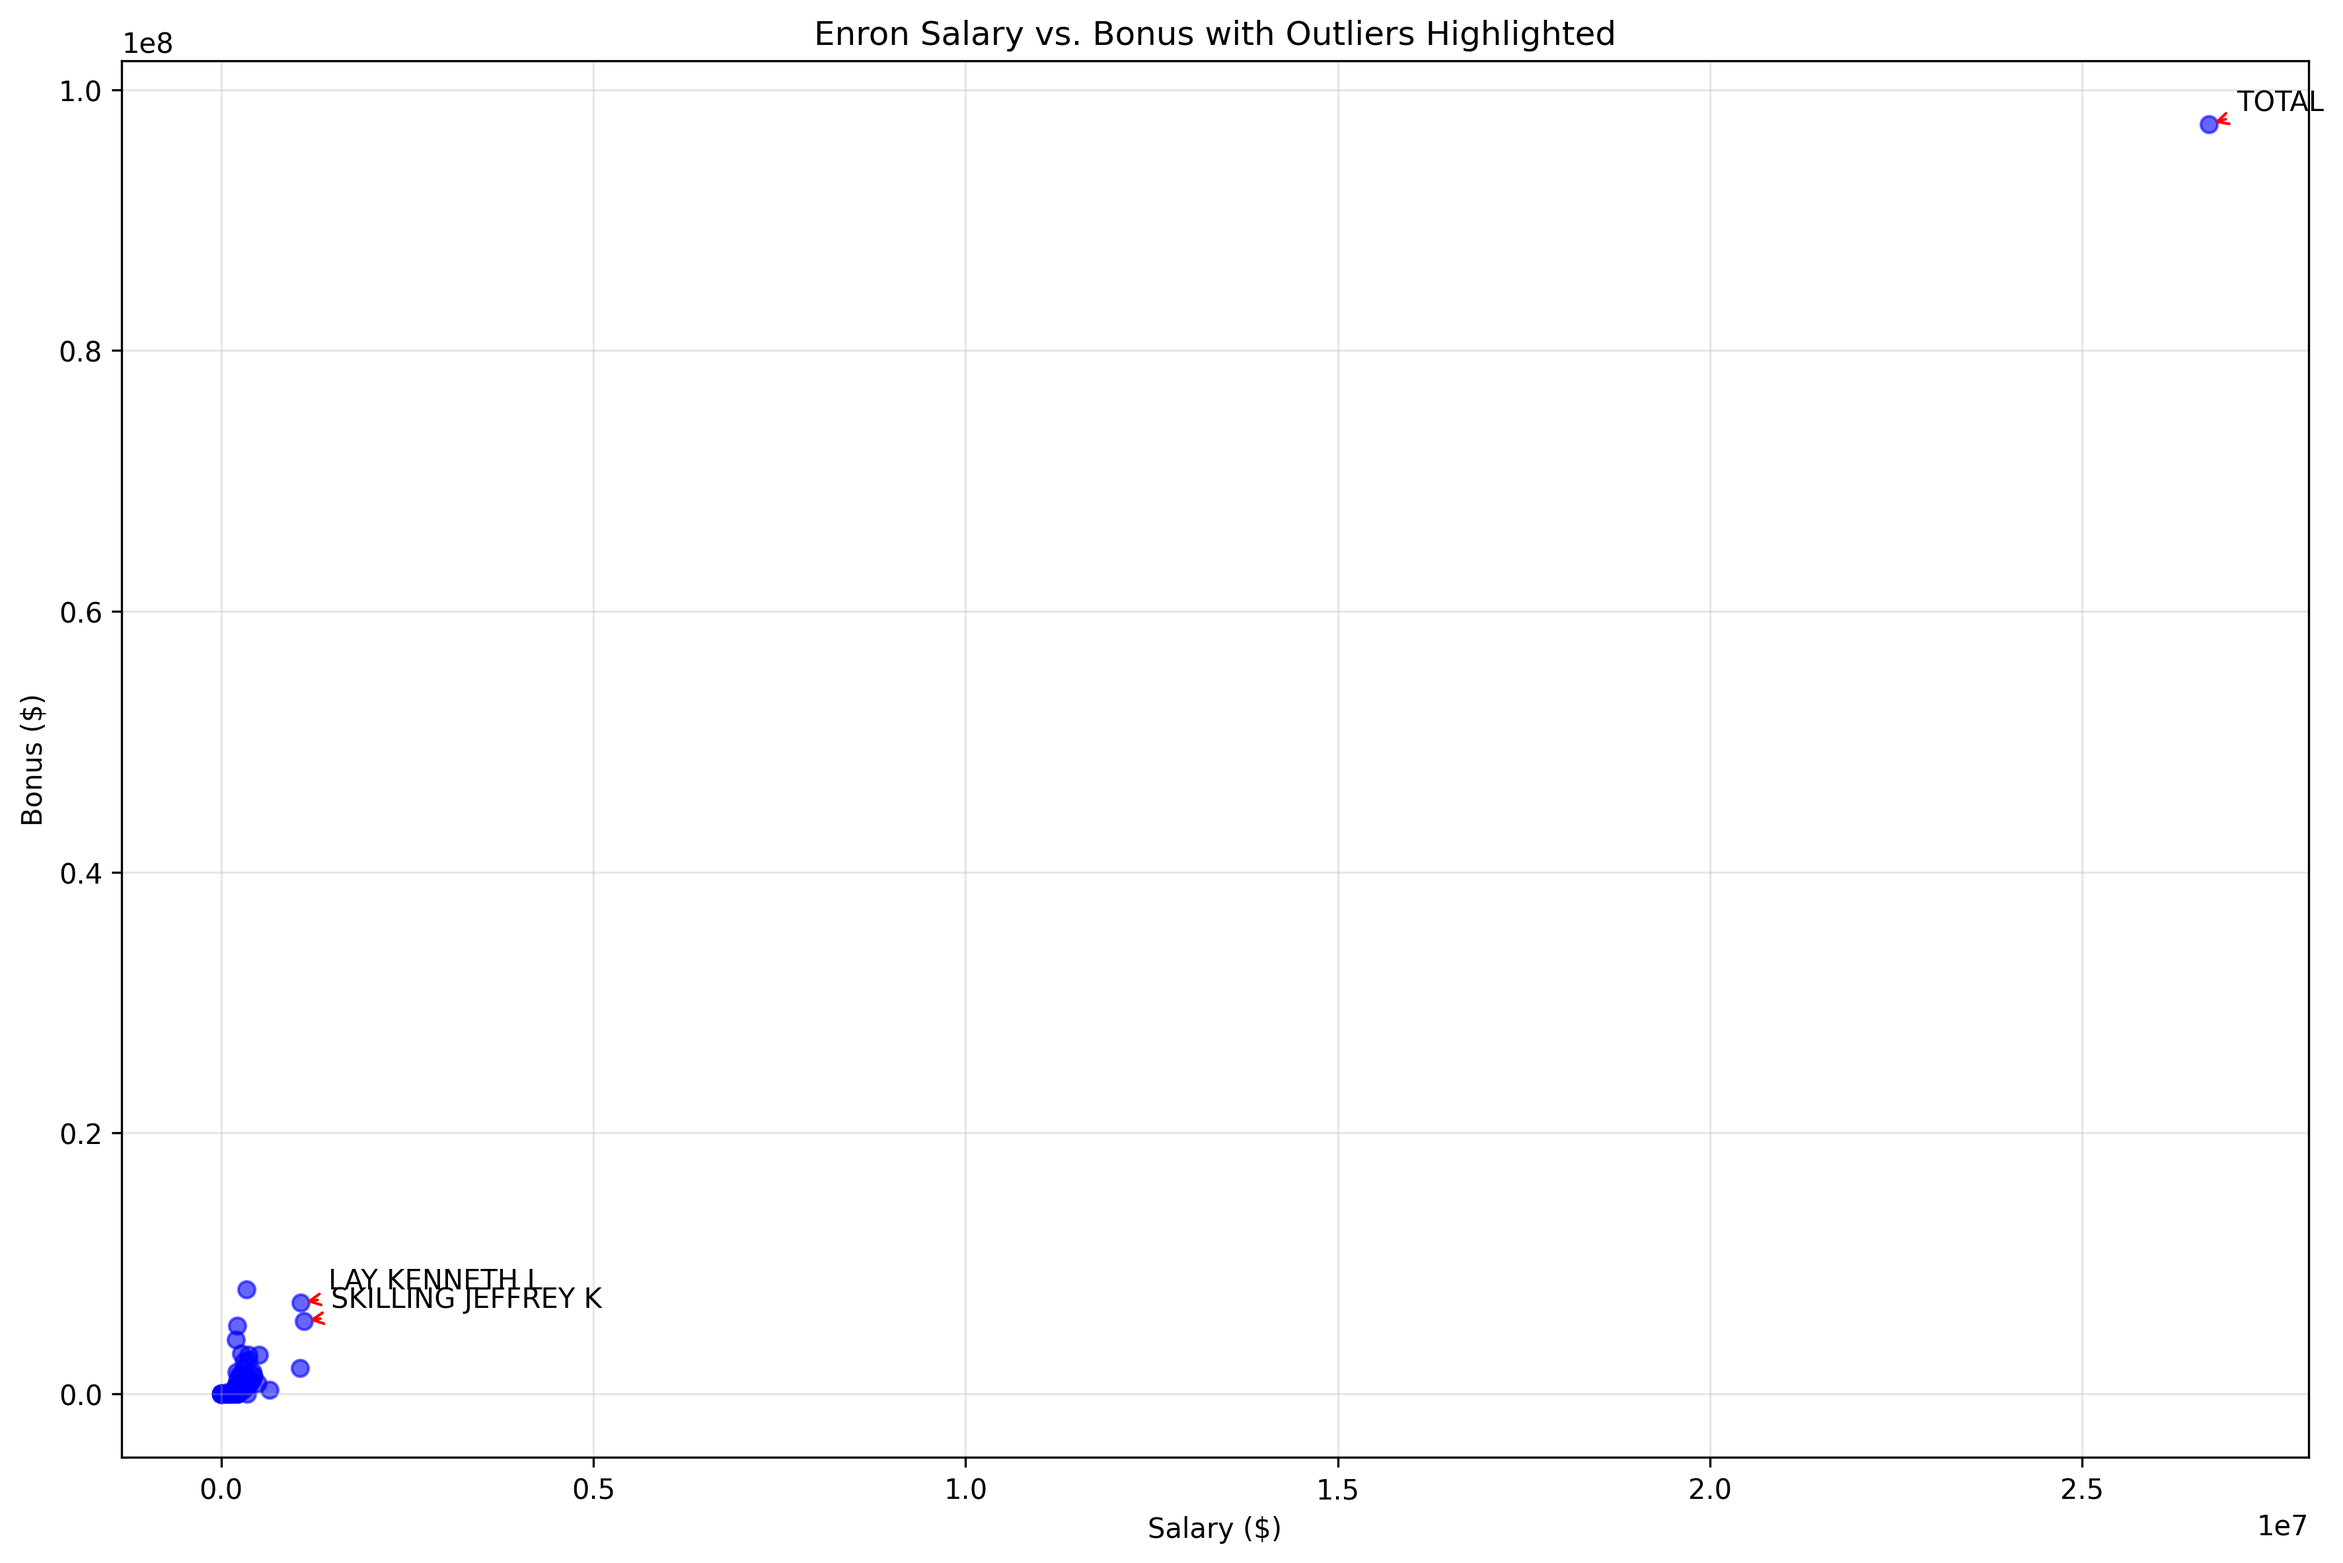
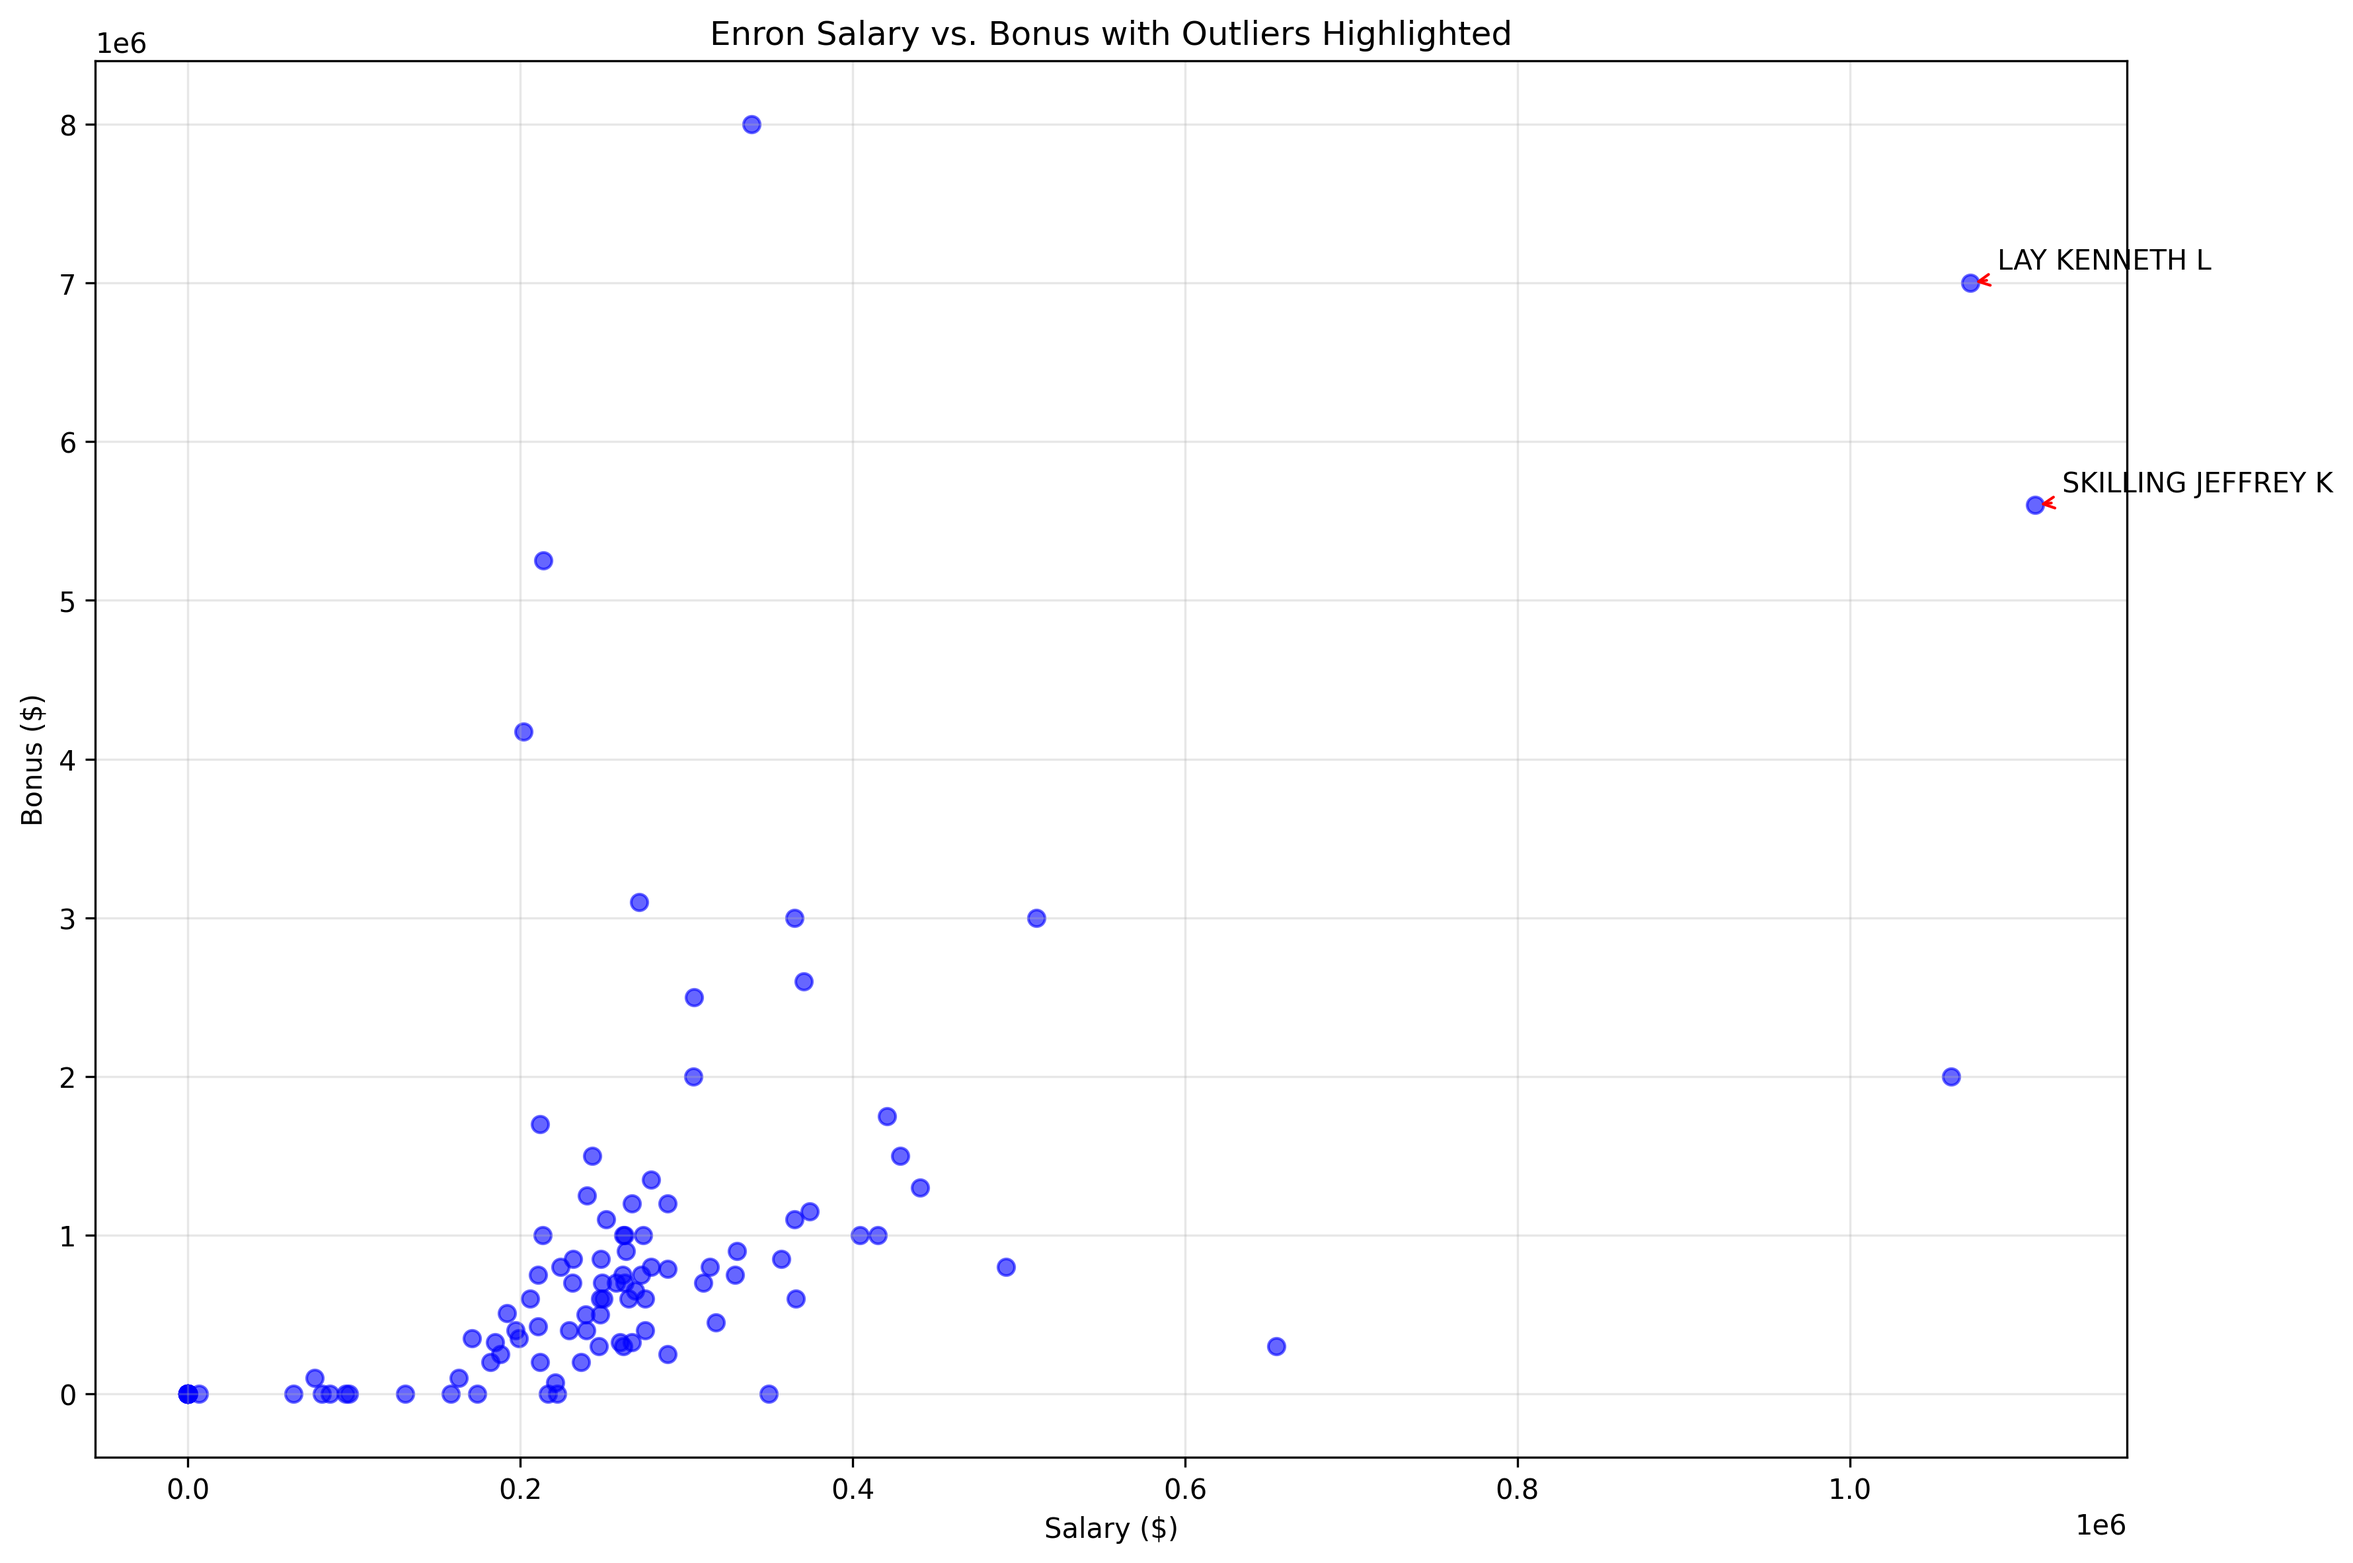
removed total from feature

diff --git a/outliers/enron_outliers.py b/outliers/enron_outliers.py
@@ -15,6 +15,11 @@ from feature_format import featureFormat, targetFeatureSplit
 ### read in data dictionary, convert to numpy array
 data_dict = joblib.load(open("C:\\Users\\ACER\\Documents\\KULIAH\\Semester 4\\Machine Learning\\Week 6\\Mini_Projects\\final_project\\final_project_dataset.pkl", "rb"))
 
+# Remove the TOTAL entry which is a summation row, not an actual person
+if 'TOTAL' in data_dict:
+    del data_dict['TOTAL']
+    print("Removed 'TOTAL' entry from dataset (summation row)")
+
 financialFeatures = ['salary', 'deferral_payments', 'total_payments', 'loan_advances', 'bonus',
 'restricted_stock_deferred', 'deferred_income', 'total_stock_value', 'expenses',
 'exercised_stock_options', 'other', 'long_term_incentive', 'restricted_stock', 'director_fees']
